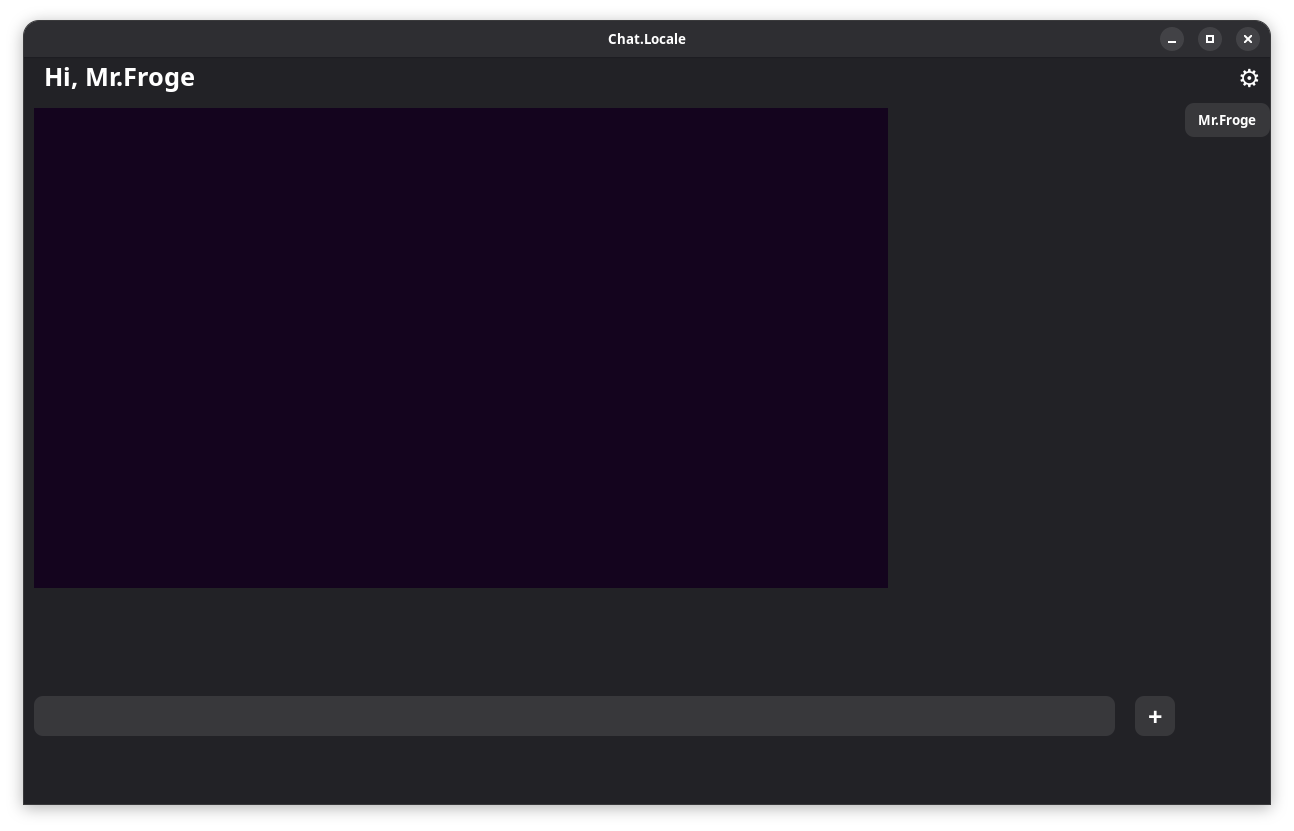
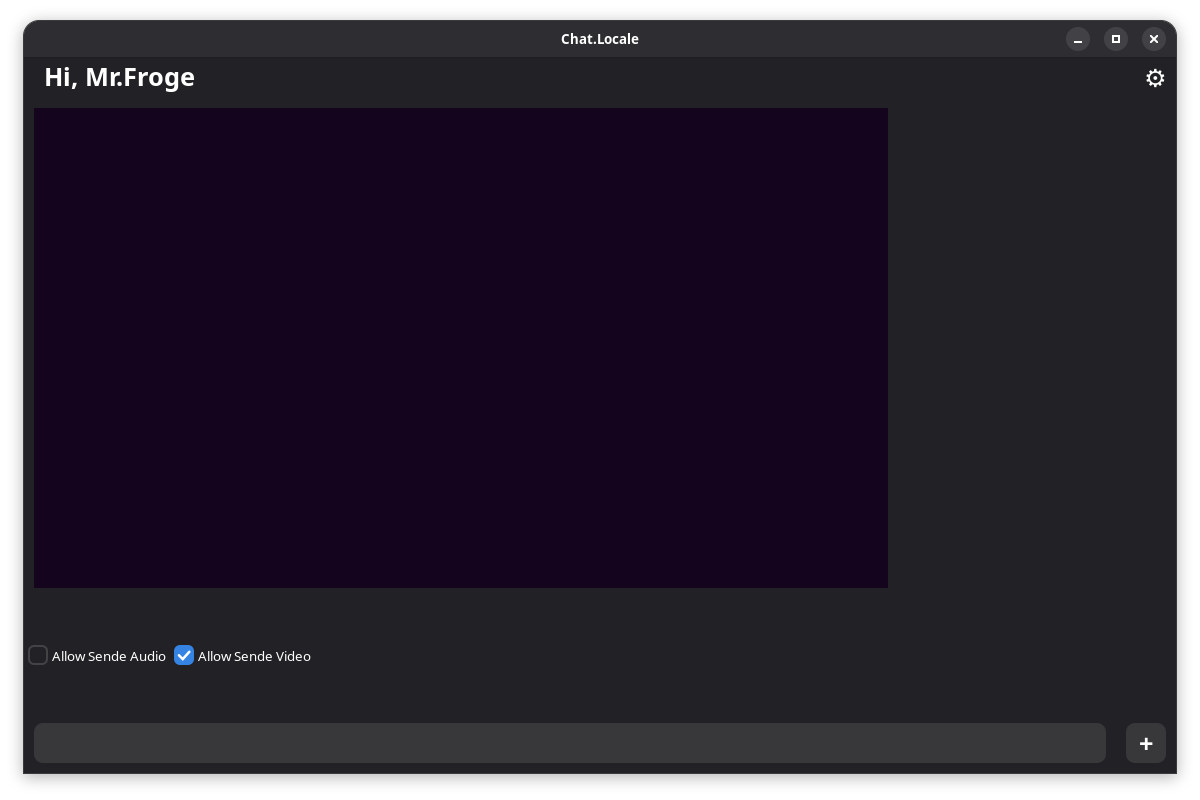
Saving allow video/audio status when closing to the config file

diff --git a/cMain.cpp b/cMain.cpp
@@ -461,6 +461,8 @@ cMain::cMain() : wxFrame(nullptr,wxID_ANY , "Chat.Locale" , wxDefaultPosition , 
 
 
 cMain::~cMain(){
+	writeConf(USER_CONFIG, SOUND_ALLOW_CONFIG, allowSoundRecording?"true":"false");
+	writeConf(USER_CONFIG, VIDEO_ALLOW_CONFIG, allowRecording?"true":"false");
 	SholdClose=true;
 	stopCapturing=true;
 	muteSpekers=true;
@@ -699,7 +701,7 @@ Satings::Satings(bool& isopen): wxFrame(nullptr, wxID_ANY, "Chat.Locale Satings"
 	teacher->SetValue(g_isTacher);
 
 	rootS->Add(teacher,1,wxALL,10);
-
+	
 
 	updateSatings=new wxButton(this,wxID_ANY,"Update Satings");
 	updateSatings->Bind(wxEVT_COMMAND_BUTTON_CLICKED,&Satings::OnUpdateSatings , this);

diff --git a/cMain.h b/cMain.h
@@ -150,7 +150,6 @@ public:
 	wxCheckBox * teacherBox;
 	wxTextCtrl *textBox = nullptr;
 	wxButton * btn1 = nullptr;
-	wxButton* btn2 = nullptr;
 
 	void OnButtonClicked(wxCommandEvent& evnt);
 };
